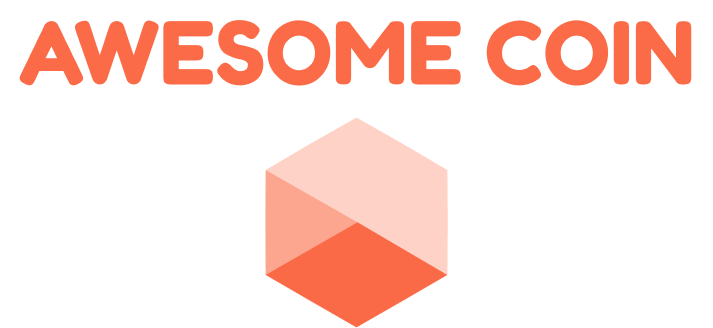
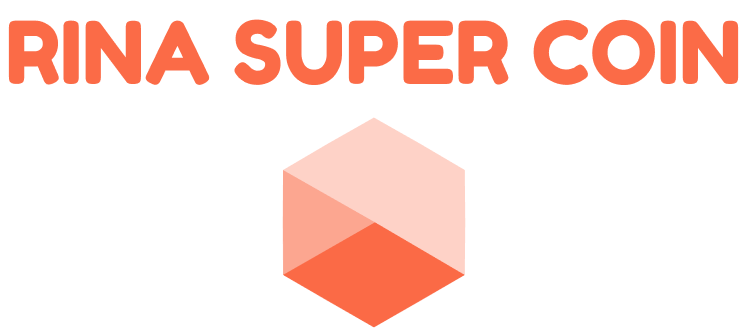
set token name and symbol in constructer params

diff --git a/test/index.ts b/test/index.ts
@@ -2,6 +2,9 @@ import { expect } from "chai";
 import { ethers } from "hardhat";
 import { Crowdsale, Token, AssetOracle } from "../typechain";
 
+const tokenName = "Rina Super Coin";
+const tokenSymbol = "RISC";
+
 describe("Token", function () {
   let token: Token;
   let owner: { address: string };
@@ -13,14 +16,14 @@ describe("Token", function () {
     const Token = await ethers.getContractFactory("Token");
     [owner] = await ethers.getSigners();
 
-    token = await Token.deploy();
+    token = await Token.deploy(tokenName, tokenSymbol);
   });
 
   it("Should get correct initial parameters", async function () {
     await token.deployed();
 
-    expect(await token.name()).to.equal("Awesome Coin");
-    expect(await token.symbol()).to.equal("AWEC");
+    expect(await token.name()).to.equal(tokenName);
+    expect(await token.symbol()).to.equal(tokenSymbol);
     expect(await token.decimals()).to.equal(18);
     expect(await token.totalSupply()).to.equal(ethers.utils.parseEther("1"));
   });
@@ -50,7 +53,7 @@ describe("Crowdsale", () => {
     const Crowdsale = await ethers.getContractFactory("Crowdsale");
     [owner] = await ethers.getSigners();
 
-    token = await Token.deploy();
+    token = await Token.deploy(tokenName, tokenSymbol);
     assetOracle = await AssetOracle.deploy(10);
     crowdsale = await Crowdsale.deploy(
       treasuryAccount.address,

diff --git a/scripts/deploy.ts b/scripts/deploy.ts
@@ -10,7 +10,7 @@ async function main() {
 
   // We get the contract to deploy
   const Token = await ethers.getContractFactory("Token");
-  const token = await Token.deploy();
+  const token = await Token.deploy("Rina Super Coin", "RISC");
 
   console.log("Token deployed to:", token.address);
 
